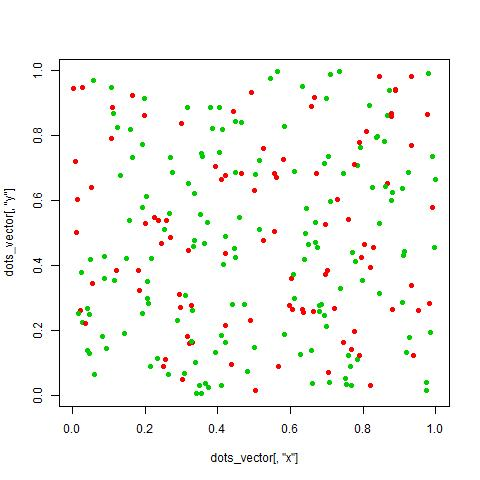
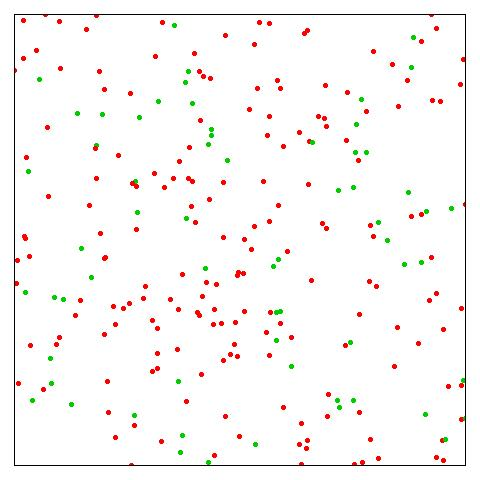
Refined ratio estimation trials

diff --git a/ratio_estimation.html b/ratio_estimation.html
@@ -16,6 +16,7 @@
 	<script src="jspsych-6.1.0/plugins/jspsych-video-button-response.js"></script>
 	<script src="jspsych-6.1.0/plugins/jspsych-survey-text.js"></script>
 	<script src="jspsych-6.1.0/plugins/jspsych-image-slider-response.js"></script>
+	<script src="jspsych-6.1.0/plugins/jspsych-html-slider-response.js"></script>
 	<script src="https://code.jquery.com/jquery-3.3.1.slim.min.js"
 		integrity="sha384-q8i/X+965DzO0rT7abK41JStQIAqVgRVzpbzo5smXKp4YfRvH+8abtTE1Pi6jizo"
 		crossorigin="anonymous"></script>
@@ -42,6 +43,17 @@
 		.Focus {
 			line-height: 200%
 		}
+
+		.greendot {
+			color: #00CC00
+		}
+
+		#estimation {
+			margin:0;
+			padding:0
+			}
+
+
 	</style>
 
 </head>
@@ -91,15 +103,13 @@
 	////////////////////////////////////////////////////////////////////////////////////////////////
 
 	/* RATIO ESTIMATION TRIALS */
-
 	// Ratio Estimation Trials
 	var ratio_estimation_trial = {
 		timeline: [
 			{
-				type: 'image-slider-response',
+				type: 'html-slider-response',
 				stimulus: jsPsych.timelineVariable('ratio'),
-				//prompt: "<p><strong> Use the slider above to estimate the percentage of green dots  </strong> </p> <video src='vid/countdown15s.mp4' height = 65 autoplay = true> </div>",
-				prompt: "<strong> Use the slider above to estimate the percentage of green dots </strong><br>",
+				//prompt: "<video src='vid/countdown15s.mp4' height = 65 autoplay = true></vid>",
 				labels: ['0%', '5', '10', '15', '20', '25', '30', '35', '40', '45', '50', '55', '60', '65', '70', '75', '80', '85', '90', '95', '100%'],
 				stimulus_height: null ,
 				slider_width: 1000,
@@ -111,20 +121,24 @@
 			}
 		],
 		timeline_variables: [
-			 { ratio: 'img/ratio estimation/Rplot 1 .jpg'},
-			 { ratio: 'img/ratio estimation/Rplot 2 .jpg'},		
-			 { ratio: 'img/ratio estimation/Rplot 3 .jpg'},
-			 { ratio: 'img/ratio estimation/Rplot 4 .jpg'},
-			 { ratio: 'img/ratio estimation/Rplot 5 .jpg'},
-			 { ratio: 'img/ratio estimation/Rplot 6 .jpg'},
-			 { ratio: 'img/ratio estimation/Rplot 7 .jpg'},
-			 { ratio: 'img/ratio estimation/Rplot 8 .jpg'},
-			 { ratio: 'img/ratio estimation/Rplot 9 .jpg'},
-			 { ratio: 'img/ratio estimation/Rplot 10 .jpg'},
-			]
+			 { ratio: "<strong> Use the slider below to estimate the percentage of <span class = 'greendot'>green dots</span> and then click 'Continue'. </strong> <br> <img src='img/ratio estimation/Rplot 1 .jpg' width= 35%></img> <br> <video src='vid/countdown15s.mp4' height= 45 autoplay = true></vid>" },
+			 { ratio: "<strong> Use the slider below to estimate the percentage of <span class = 'greendot'>green dots</span> and then click 'Continue'. </strong> <br> <img src='img/ratio estimation/Rplot 2 .jpg' width= 35%></img> <br> <video src='vid/countdown15s.mp4' height = 45 autoplay = true></vid>" },		
+			 { ratio: "<strong> Use the slider below to estimate the percentage of <span class = 'greendot'>green dots</span> and then click 'Continue'. </strong> <br> <img src='img/ratio estimation/Rplot 3 .jpg' width= 35%></img> <br> <video src='vid/countdown15s.mp4' height = 45 autoplay = true></vid>" },
+			 { ratio: "<strong> Use the slider below to estimate the percentage of <span class = 'greendot'>green dots</span> and then click 'Continue'. </strong> <br> <img src='img/ratio estimation/Rplot 4 .jpg' width= 35%></img> <br> <video src='vid/countdown15s.mp4' height = 45 autoplay = true></vid>" },
+			 { ratio: "<strong> Use the slider below to estimate the percentage of <span class = 'greendot'>green dots</span> and then click 'Continue'. </strong> <br> <img src='img/ratio estimation/Rplot 5 .jpg' width= 35%></img> <br> <video src='vid/countdown15s.mp4' height = 45 autoplay = true></vid>" },
+			 { ratio: "<strong> Use the slider below to estimate the percentage of <span class = 'greendot'>green dots</span> and then click 'Continue'. </strong> <br> <img src='img/ratio estimation/Rplot 6 .jpg' width= 35%></img> <br> <video src='vid/countdown15s.mp4' height = 45 autoplay = true></vid>" },
+			 { ratio: "<strong> Use the slider below to estimate the percentage of <span class = 'greendot'>green dots</span> and then click 'Continue'. </strong> <br> <img src='img/ratio estimation/Rplot 7 .jpg' width= 35%></img> <br> <video src='vid/countdown15s.mp4' height = 45 autoplay = true></vid>" },
+			 { ratio: "<strong> Use the slider below to estimate the percentage of <span class = 'greendot'>green dots</span> and then click 'Continue'. </strong> <br> <img src='img/ratio estimation/Rplot 8 .jpg' width= 35%></img> <br> <video src='vid/countdown15s.mp4' height = 45 autoplay = true></vid>" },
+			 { ratio: "<strong> Use the slider below to estimate the percentage of <span class = 'greendot'>green dots</span> and then click 'Continue'. </strong> <br> <img src='img/ratio estimation/Rplot 9 .jpg' width= 35%></img> <br> <video src='vid/countdown15s.mp4' height = 45 autoplay = true></vid>" },
+			 { ratio: "<strong> Use the slider below to estimate the percentage of <span class = 'greendot'>green dots</span> and then click 'Continue'. </strong> <br> <img src='img/ratio estimation/Rplot 10 .jpg' width= 35%></img> <br>  <video src='vid/countdown15s.mp4' height = 45 autoplay = true></vid>" },
+		],
+		randomize_order: true
 	}
 	timeline.push(ratio_estimation_trial);
 
+
+
+	
 
 	//End of trials message
 	var TestEnd = {
@@ -142,7 +156,7 @@
 	timeline.push({
 		type: "fullscreen",
 		fullscreen_mode: false,
-		message: "Thank you for your feedback. You can now close this window."
+		message: "Thank you. You can now close this window."
 	});
 	
 	//The End
@@ -166,5 +180,4 @@
 		axios.post("https://mate-choice-test.herokuapp.com/questionnaires/add", data);
 	}
 </script>
-
 </html>

diff --git a/jspsych-6.1.0/css/jspsych.css b/jspsych-6.1.0/css/jspsych.css
@@ -123,3 +123,10 @@
 #jspsych-data-display {
   text-align: left;
 }
+
+/* MY OWN ADDITIONS - not working rn */
+
+#estimation {
+			margin:0;
+			padding:0
+			}
